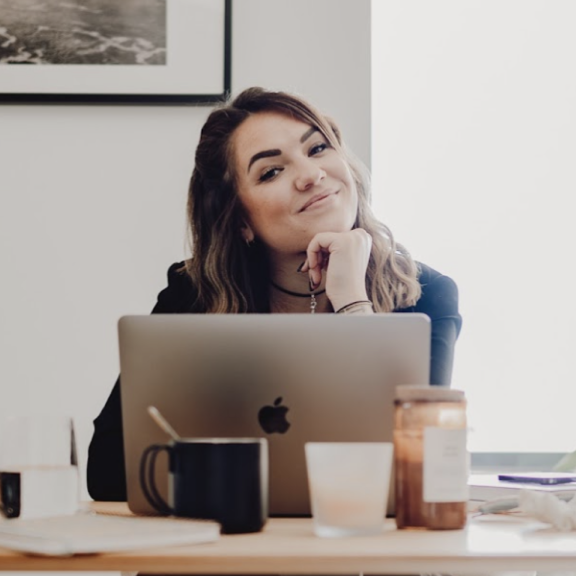
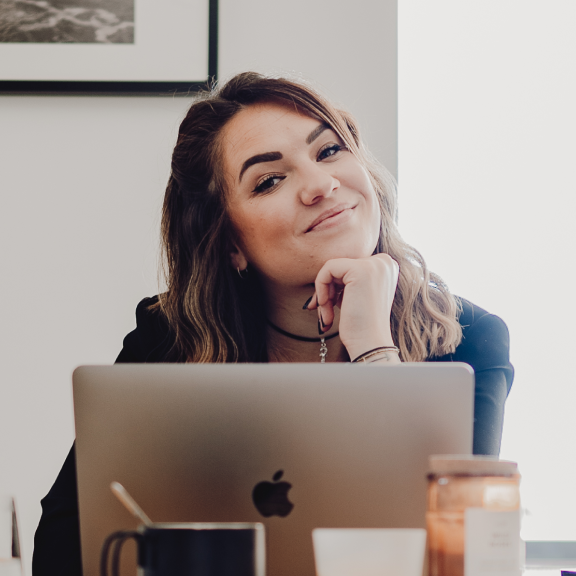
add changes

diff --git a/src/components/Testimonials.jsx b/src/components/Testimonials.jsx
@@ -19,8 +19,8 @@ const testimonials = [
       content:
         'Nous sommes des investisseurs, et nous avions besoin de quelqu’un de confiance pour déléguer toute la partie communication (Instagram et Youtube). Le défi a été relevé avec brio. Elle fait partie de nos projets, et nous souhaitons avoir son avis sur les futures stratégies à adopter. Ce n’est pas une simple CM, c’est la CM qu’il faut à votre activité entrepreneuriale',
       author: {
-        name: 'Antonio Littel',
-        role: 'Frontend Developer',
+        name: 'Leo',
+        role: 'Investisseur',
         image: avatarImage3,
       },
     },
@@ -28,8 +28,8 @@ const testimonials = [
       content:
         'Les changements de l\'environnement en ligne sont nombreux, il nous fallait quelqu’un de réactive. C’est une des qualités que nous avons trouvé chez Leslie. Une force pétillante et ingénieuse, à toute épreuve !',
       author: {
-        name: 'Lynn Nolan',
-        role: 'Growth Marketer',
+        name: 'Clara',
+        role: 'Coach Business',
         image: avatarImage4,
       },
     },
@@ -37,8 +37,8 @@ const testimonials = [
       content:
         'Leslie est une professionnelle de la gestion de communauté très réactive qui sait comment répondre rapidement aux besoins de notre communauté. Elle est également très créative, et pour un salon de coiffure comme le nôtre c’était exactement la bonne personne.',
       author: {
-        name: 'Krista Prosacco',
-        role: 'Professional Designer',
+        name: 'Marie',
+        role: 'Coach Bien-être & Thérapie',
         image: avatarImage9,
       },
     },
@@ -48,8 +48,8 @@ const testimonials = [
       content:
         'J’avais besoin de contenu UGC, pour développer le compte Tiktok d’une plateforme de réservations. J’ai naturellement fait appel à Leslie. Je l’avais rencontré quelques mois plus tôt, durant un dîner d’entrepreneur. Elle avait su me convaincre rapidement lors d’un rapide échange. Son professionnalisme et son efficacité dans la création de contenu ont fait de suite la différence. ',
       author: {
-        name: 'Cameron Considine',
-        role: 'Entrepreneur',
+        name: 'Khaled',
+        role: 'Créateur de plateforme de réservation',
         image: avatarImage7,
       },
     },
@@ -57,8 +57,8 @@ const testimonials = [
       content:
         'Sa connaissance approfondie des médias sociaux et sa capacité à créer des campagnes de marketing efficaces pour engager notre communauté a été un vrai plus dans le développement de notre pôle communication',
       author: {
-        name: 'Regina Wisoky',
-        role: 'Design Student',
+        name: 'Clémentine',
+        role: 'Photographe',
         image: avatarImage11,
       },
     },
@@ -66,8 +66,8 @@ const testimonials = [
       content:
         'Leslie est une rockstar du marketing des médias sociaux ! Elle possède une grande expérience en gestion de communauté et sait comment créer une communauté dynamique et passionnée autour de notre entreprise !',
       author: {
-        name: 'Vernon Cummerata',
-        role: 'UI Engineer',
+        name: 'Pierre',
+        role: 'Coach en ressources humaines',
         image: avatarImage8,
       },
     },
@@ -77,8 +77,8 @@ const testimonials = [
       content:
         'Je voulais vous parler de Leslie. J’ai fait appel à ces services pour une mission très précise sur la partie communication sur les réseaux sociaux : sur Instagram. Toute l’équipe a apprécié les compétences de Leslie, d’une façon pragmatique et concrète. Deuxièmement, son niveau de créativité, de réactivité et de bonne humeur.',
       author: {
-        name: 'Steven Hackett',
-        role: 'Bootcamp Instructor',
+        name: 'Sylvain',
+        role: 'Mentor Coach Business',
         image: avatarImage5,
       },
     },
@@ -86,8 +86,8 @@ const testimonials = [
       content:
         'Je confirme à 100% le gain de temps et de tranquillité que j’ai eu grâce à ton travail. C’est devenu indispensable pour moi ! Et mes clientes voient totalement la différence, sans regret d’avoir sauté le pas d’engager une CM !',
       author: {
-        name: 'Carla Schoen',
-        role: 'Startup Founder',
+        name: 'Violaine',
+        role: 'Practicienne en maquillage semi-permanent',
         image: avatarImage10,
       },
     },
@@ -95,8 +95,8 @@ const testimonials = [
       content:
         'Cela fait 1 an que nous collaborons ensemble et je dois dire que le professionnalisme, le soutien, ou  la créativité de Leslie m’ont permis de franchir un réel cap dans ma carrière professionnelle ! Un grand merci et ce n’est que le début d’une longue collaboration.',
       author: {
-        name: 'Leah Kiehn',
-        role: 'Creative Director',
+        name: 'Anais',
+        role: 'Coach sportif digital',
         image: avatarImage6,
       },
     },

diff --git a/src/components/Features.jsx b/src/components/Features.jsx
@@ -1,21 +1,21 @@
-import { CloudArrowUpIcon, LockClosedIcon, ServerIcon } from '@heroicons/react/20/solid'
+import {AcademicCapIcon, CalendarIcon, ChartBarIcon} from '@heroicons/react/20/solid'
 
 const features = [
     {
         name: 'Les compétences',
         description:
             'servent à qualifier son audience, et t’imposer parmi les meilleur.es CM sur le marché.',
-        icon: CloudArrowUpIcon,
+        icon: AcademicCapIcon,
     },
     {
         name: 'La vente',
         description: "c’est la compétence qui manque à la plupart des CM aujourd’hui. Et il est crucial de leur transmettre ce domaine d'expertise.\n",
-        icon: LockClosedIcon,
+        icon: ChartBarIcon,
     },
     {
         name: 'Créer une organisation efficiente. ',
         description: 'Prépare toi à gérer plusieurs dossiers, car ton activité va prendre un tournant ...',
-        icon: ServerIcon,
+        icon: CalendarIcon,
     },
 ]
 
@@ -55,8 +55,8 @@ export default function Features() {
                             />
                             <div className="mx-auto max-w-2xl sm:mx-0 sm:max-w-none">
                                 <img
-                                    src="https://i.postimg.cc/6qsBdNzd/final.png"
-                                    alt="Product screenshot"
+                                    src="https://i.postimg.cc/Hs9kM27X/background.png"
+                                    alt="Photo by @corbo_illu on Instagram"
                                     className=" md:rounded-tl-xl sm:rounded-xl bg-slate-800 ring-1 ring-white/10"
                                 />
                             </div>
